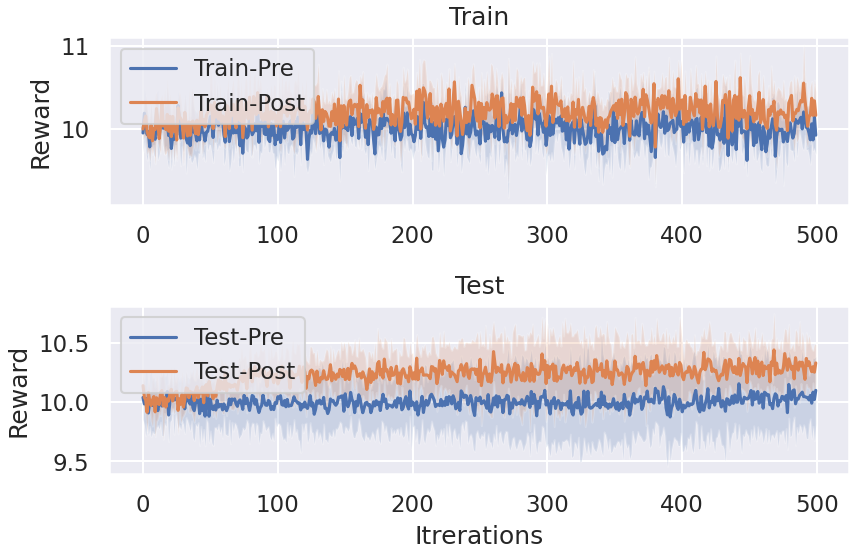
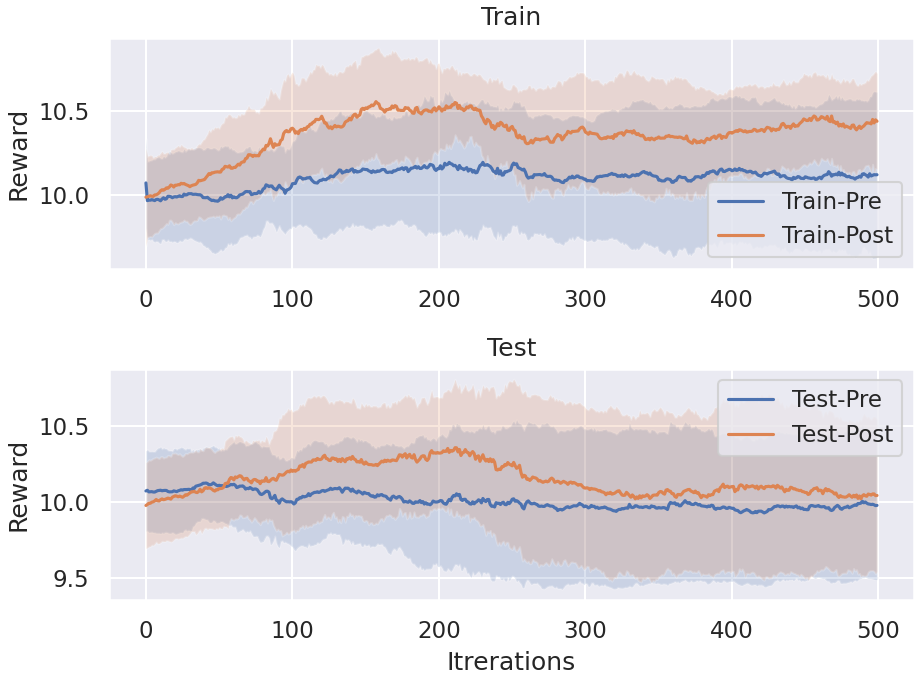
fix: correct exploration mode

diff --git a/examples/MAML-RL/maml_torchrl.py b/examples/MAML-RL/maml_torchrl.py
@@ -96,7 +96,7 @@ def evaluate(env, dummy_env, seed, task_num, actor_critic):
         policy = actor_critic.get_policy_operator()
         value = actor_critic.get_value_operator()
         for _ in range(inner_iters):
-            with set_exploration_mode('random'), torch.no_grad():
+            with set_exploration_mode('mode'), torch.no_grad():
                 pre_traj_td = (
                     env.rollout(
                         policy=policy,
@@ -108,7 +108,7 @@ def evaluate(env, dummy_env, seed, task_num, actor_critic):
                 )
             inner_loss = a2c_loss(pre_traj_td, policy, value, value_coef=0.5)
             inner_opt.step(inner_loss)
-        with set_exploration_mode('random'), torch.no_grad():
+        with set_exploration_mode('mode'), torch.no_grad():
             post_traj_td = (
                 env.rollout(
                     policy=policy,
